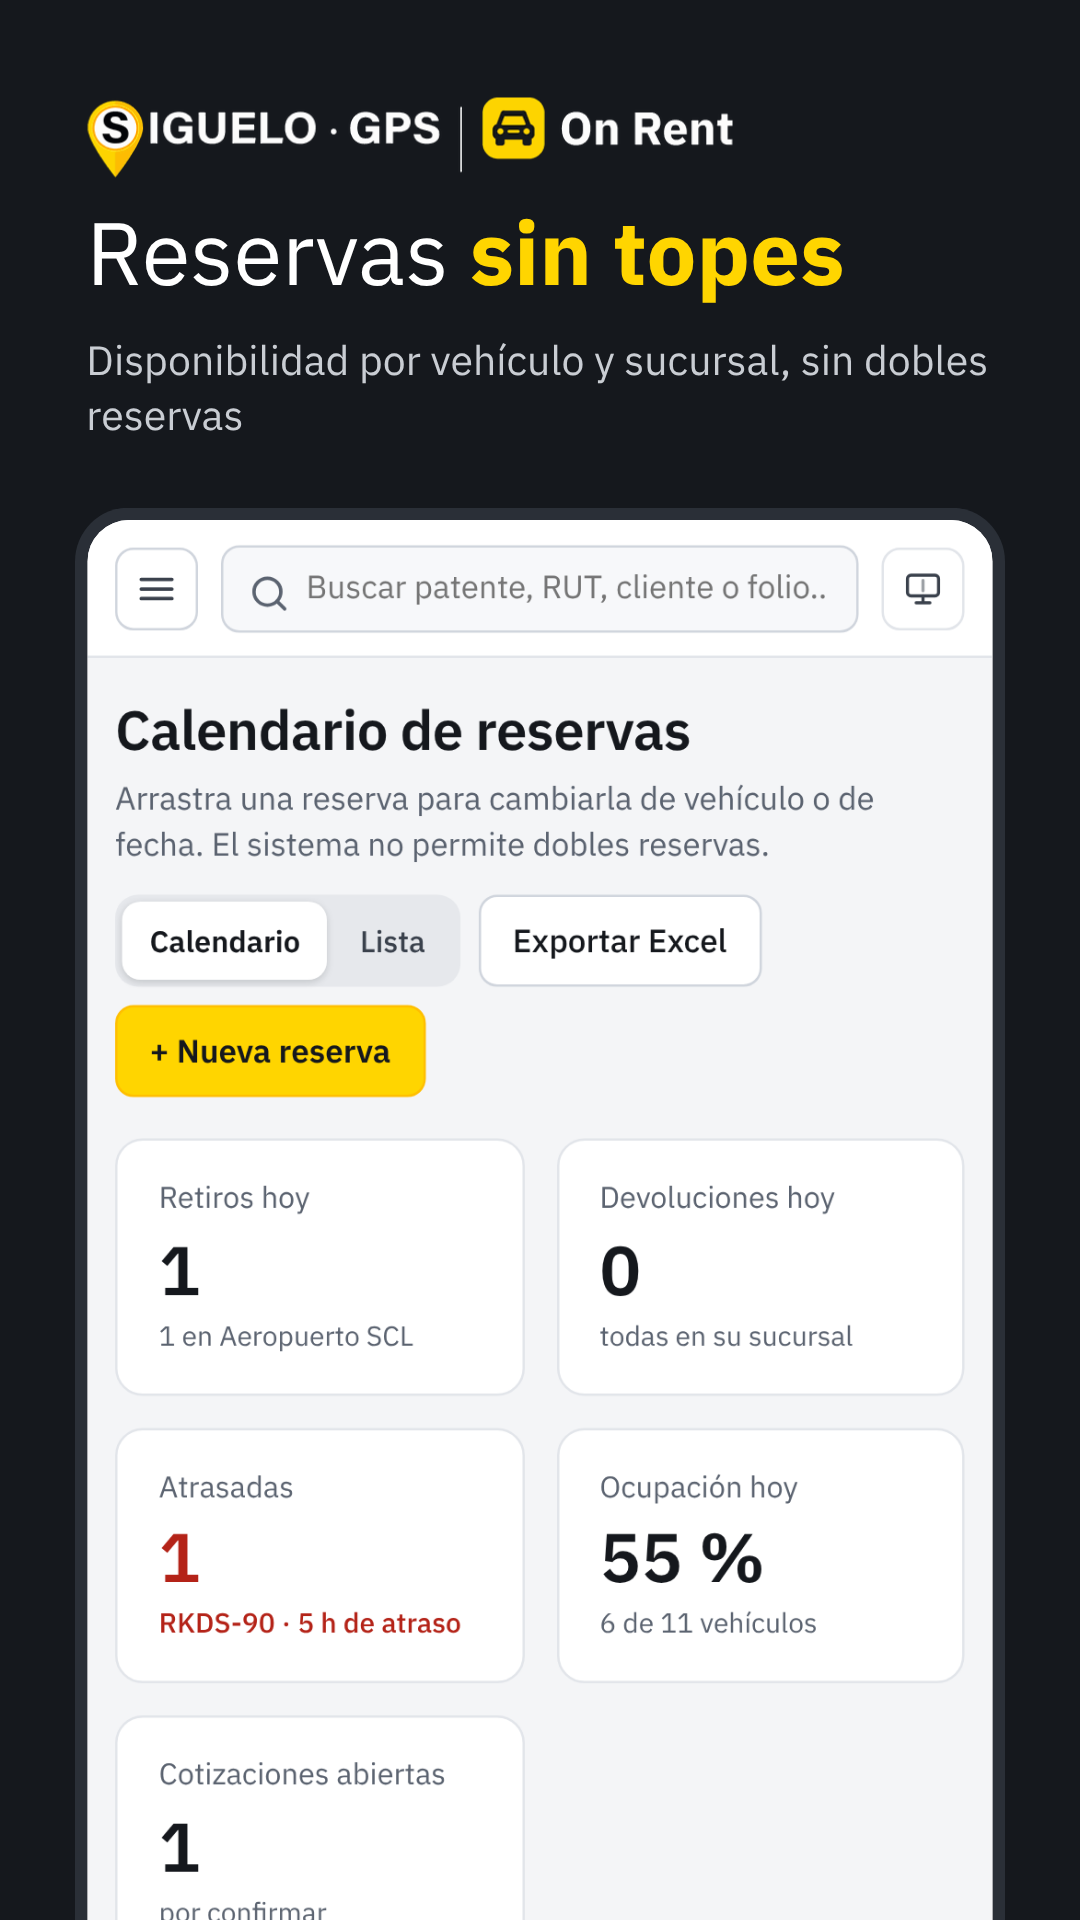
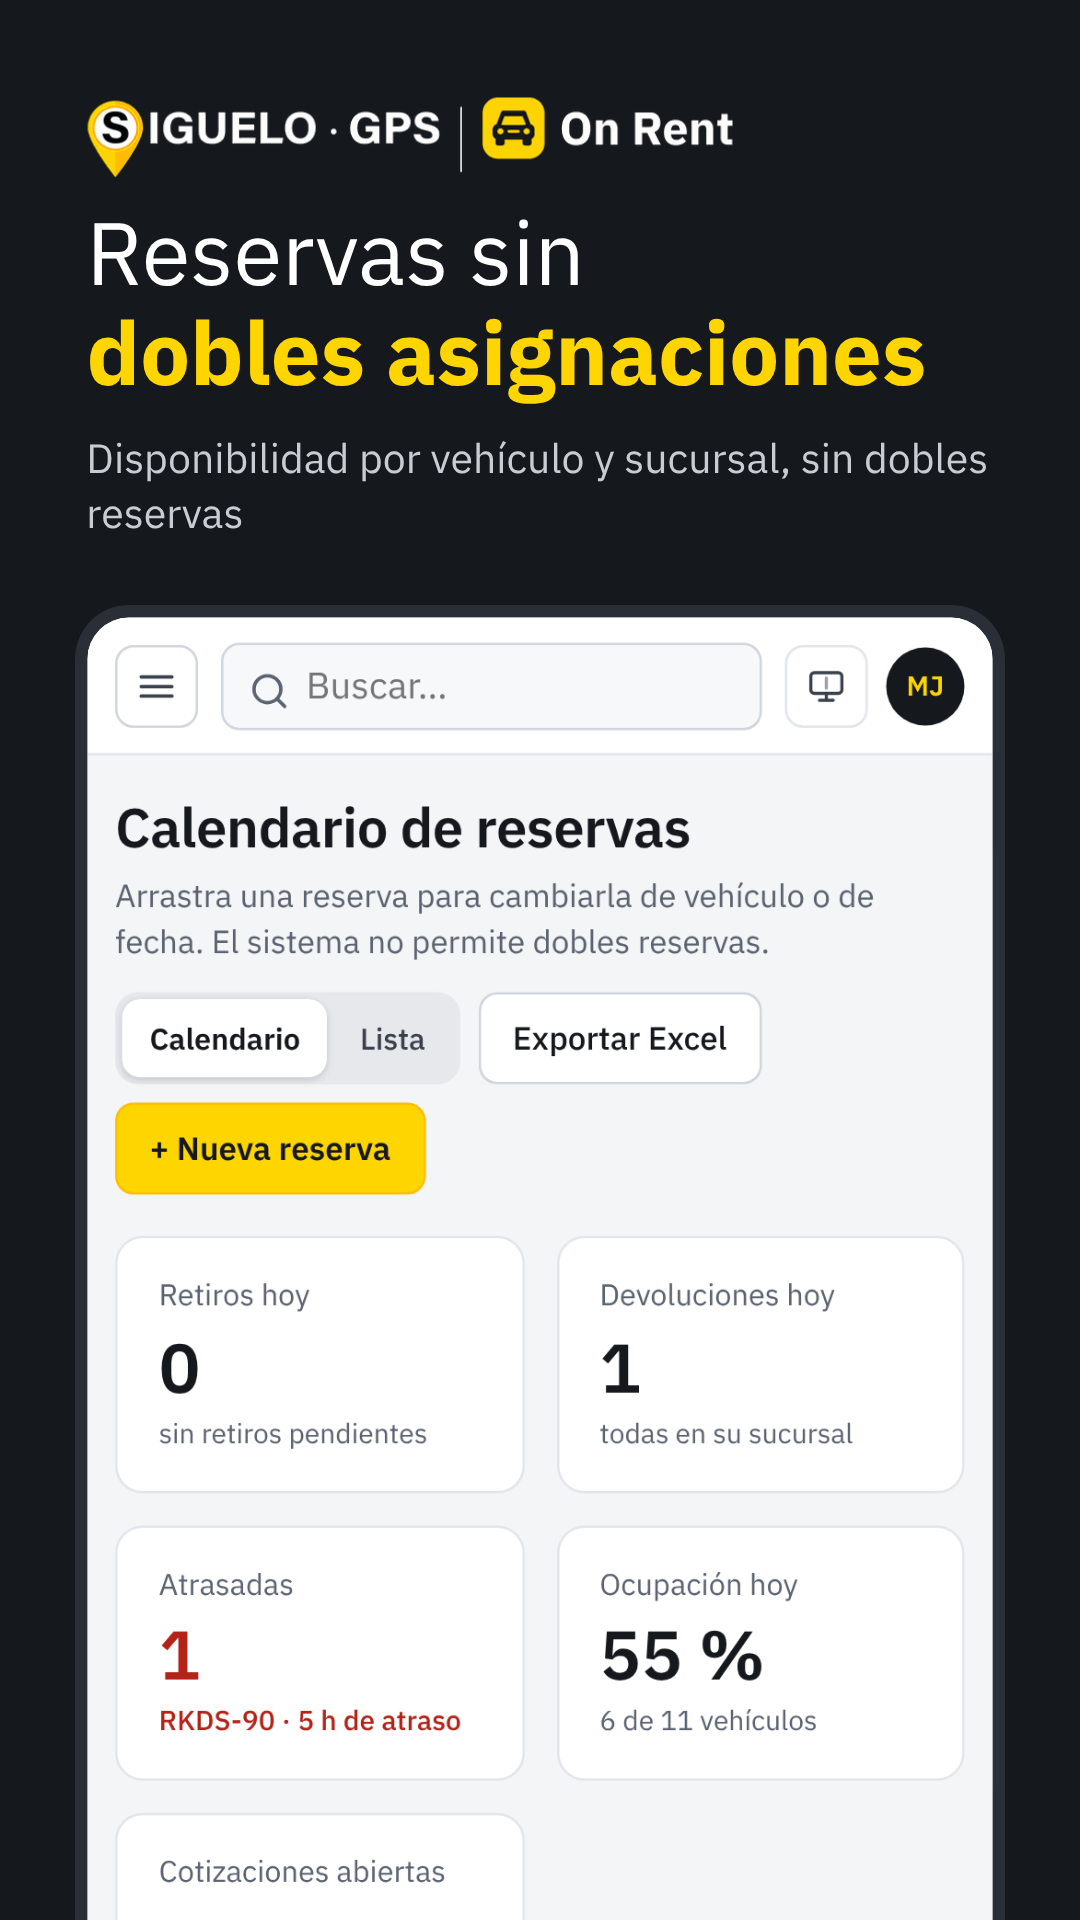
Ficha de las tiendas y privacidad: «rentacar», no «rent a car»
Auditoría de marca 8-nov, fila 12. El CLAUDE.md prohíbe «Rent a Car» en el producto y la
ficha lo usaba en la descripción breve, el subtítulo y el cuerpo, con títulos en
mayúsculas y «RESERVAS SIN TOPES», que se presta a confusión. «rent a car» queda solo
como palabra clave de búsqueda. Se regeneran las dos capturas con titular cambiado.

Claude-Session: https://claude.ai/code/session_01RtCmpFwsFvHRccBV6ptNYL

Changed region(s): [[0.0611, 0.125, 0.9472, 1.0], [0.55, 0.625, 0.7944, 0.9062], [0.4583, 0.5312, 0.6722, 0.5625]]

diff --git a/apps/movil/tienda/ficha.md b/apps/movil/tienda/ficha.md
@@ -21,34 +21,34 @@ Textos listos para copiar en Google Play Console y App Store Connect. Las captur
 
 ## Descripción breve (Play, máx. 80)
 
-Rent a car en tu teléfono: reservas, contratos, entregas y devoluciones.
+Tu rentacar en el teléfono: reservas, contratos, entregas y devoluciones.
 
 ## Subtítulo (App Store, máx. 30)
 
-Administra tu rent a car
+Administra tu rentacar
 
 ## Descripción completa (Play y App Store, máx. 4.000)
 
-Síguelo On Rent es el sistema de administración para empresas de arriendo de vehículos (rent a car) de Síguelo GPS. Con la app, tu equipo de mesón, patio y administración trabaja desde el teléfono o la tablet, con los mismos datos que en el computador.
+Síguelo On Rent es el sistema de administración para empresas de arriendo de vehículos (rentacar) de Síguelo GPS. Con la app, tu equipo de mesón, patio y administración trabaja desde el teléfono o la tablet, con los mismos datos que en el computador.
 
-RESERVAS SIN TOPES
+Reservas sin dobles asignaciones
 • Calendario por vehículo y sucursal: el sistema no permite dobles reservas.
 • Cotiza con tus tarifas, temporadas, extras y códigos de descuento.
 
-ENTREGA Y DEVOLUCIÓN DESDE EL PATIO
+Entrega y devolución desde el patio
 • Kilometraje y combustible leídos desde la plataforma GPS, para confirmar con el tablero.
 • Checklist de accesorios y fotos guiadas del vehículo, selladas con fecha, hora y lugar.
 • Compara la entrega con la devolución y marca cada daño sobre la foto.
 
-CONTRATO CON FIRMA DIGITAL
+Contrato con firma digital
 • El cliente firma en el teléfono; el contrato en PDF lleva un código QR de verificación.
 • Envía la copia por correo o WhatsApp.
 
-COBROS, GARANTÍAS Y DOCUMENTOS
+Cobros, garantías y documentos
 • Pagos y garantías, liquidación de la devolución, boletas y facturas electrónicas.
 • Multas y TAG asociados a cada arriendo.
 
-TU FLOTA, SIEMPRE AL DÍA
+Tu flota, siempre al día
 • Estado de cada vehículo, mantenciones, revisión técnica, seguros y ubicación GPS.
 • Reportes de ocupación y ventas.
 
@@ -57,6 +57,9 @@ Multi-sucursal, con permisos por rol (administración, mesón, patio y finanzas)
 Para usar la app, tu empresa debe tener contratado Síguelo On Rent. Las cuentas las crea el administrador de tu empresa. ¿Quieres conocerlo? Escríbenos a info@siguelogps.cl.
 
 ## Palabras clave (App Store, máx. 100)
+
+<!-- Auditoría 8-nov (marca #12): «rent a car» queda solo aquí, como palabra que la gente busca en la tienda; en los
+     textos que se leen va «rentacar», como manda el CLAUDE.md. -->
 
 rent a car,arriendo,vehículos,flota,reservas,contrato,firma,patio,checklist,inspección,gps,chile
 
